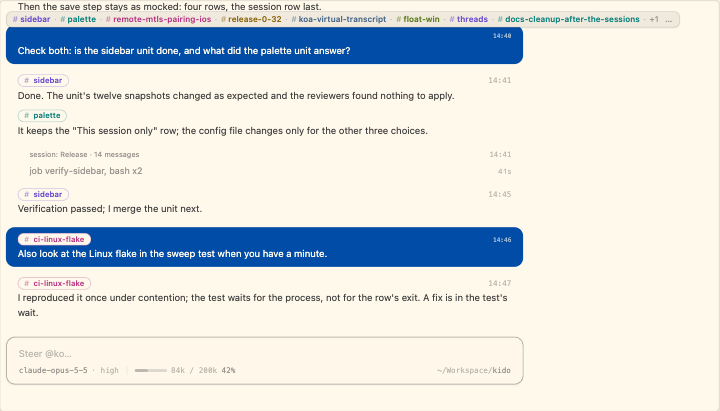
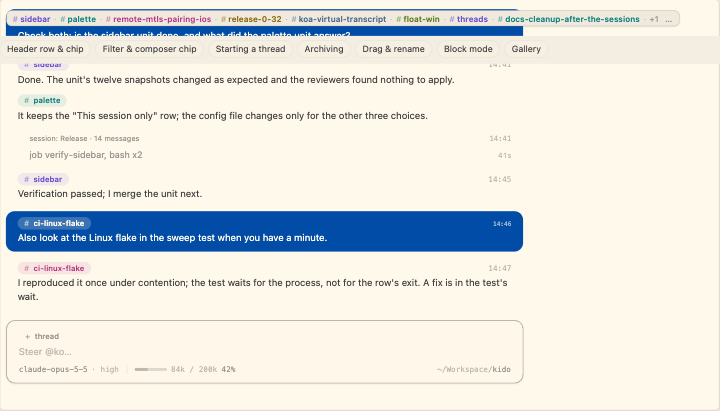
koa threads: the composer's thread, starting and archiving a thread
The chip is a tinted pill; a message's chip sets the composer's thread and only the thread widget filters. The composer always has a header row with its thread or + thread, /thread names one, a message's header offers + thread to move its turn into a new thread, and a widget row archives its thread, which the classifier then no longer offers.

diff --git a/app/design/koa/header.html b/app/design/koa/header.html
@@ -664,24 +664,80 @@ html:not([data-dock=band]) .gallery .dock .field{-webkit-backdrop-filter:none;ba
 .pane .msg.user,html[data-um=solid] .pane .msg.user{display:block}
 .msg.assistant .sec+.sec{margin-top:10px}
 .field .hd{margin:0 0 4px}
+/* the panel's drag, drop and rename (NOTES, "The classifier MVP, reviewed") */
+.tpanel .row.dragging{opacity:.5}
+.tpanel .row.drop{outline:2px solid color-mix(in srgb,var(--dc) 50%,transparent);outline-offset:-2px;background:color-mix(in srgb,var(--dc) 6%,var(--well))}
+.msg.assistant.drop{outline:2px solid color-mix(in srgb,var(--dc) 50%,transparent);outline-offset:3px;border-radius:6px;background:color-mix(in srgb,var(--dc) 6%,transparent)}
+.tpanel .row.renaming{cursor:default}.tpanel .row.renaming .n{color:var(--tc)}.tpanel .row.renaming .n .h{opacity:.55;font-weight:400}
+.tpanel .row.renaming .input{flex:1;min-width:0;border:1px solid var(--hair);border-radius:4px;padding:2px 6px;background:var(--ko-bg);color:var(--fg);font-weight:400;line-height:1.3}
+.tpanel .row.renaming .sel{background:color-mix(in srgb,var(--accent) 28%,transparent)}
+/* naming a new thread in the composer (proposal 2026-11-21) */
+.chip.naming{cursor:text}.chip.naming .in{min-width:6ch}.chip.naming .ph{color:var(--faint);font-weight:400}.chip.naming .caret{display:inline-block;width:1px;height:1em;background:var(--fg);vertical-align:-2px;margin-left:1px}
+.tpanel .row.new .n{color:var(--muted);font-weight:500}
+.field .text.has{color:var(--fg)}
+/* adding a thread to an existing message: the "+ thread" chip on hover of the header row */
+.chip.add{border:1px dashed color-mix(in srgb,var(--fg) 30%,transparent);background:none;color:var(--muted);font-weight:500;padding:0 8px}.chip.add .h{opacity:.8;font-weight:500}
+.msg.user .chip.add{border-color:color-mix(in srgb,var(--ink,var(--fg)) 45%,transparent);color:color-mix(in srgb,var(--ink,var(--fg)) 80%,transparent)}
+.msg.user .chip.naming{background:color-mix(in srgb,var(--ko-bg) 22%,transparent);color:var(--ink,var(--fg))}.msg.user .chip.naming .caret{background:var(--ink,var(--fg))}.msg.user .chip.naming .ph{color:color-mix(in srgb,var(--ink,var(--fg)) 55%,transparent)}
+/* archive (user, 2026-11-21): an × at the row's right on hover, in the age's slot; an archived row stays, dimmed, after the live ones, and its hover control is ↺ */
+.tpanel .row .x{display:none;width:16px;height:16px;line-height:16px;text-align:center;border-radius:4px;color:var(--muted);font:14px/16px var(--prose);flex-shrink:0;margin:0 -2px 0 0}
+.tpanel .row.hov .w,.tpanel .row:hover .w{display:none}.tpanel .row.hov .x,.tpanel .row:hover .x{display:inline-block}.tpanel .row .x:hover{background:var(--well2);color:var(--ko-fg)}
+.tpanel .row.archived{opacity:.45}.tpanel .row.archived:hover,.tpanel .row.archived.hov{opacity:.7}
+.caps .hn.archived{display:none}
+/* chip variants for the user to choose (2026-11-21) */
+html[data-chip=plain] .chip{border-color:transparent;background:none;padding:0}
+html[data-chip=tint] .chip{border-color:transparent;background:color-mix(in srgb,var(--tc) 10%,transparent)}
+html[data-chip=tint] .msg.user .chip{background:color-mix(in srgb,var(--ko-bg) 22%,transparent);color:var(--ink,var(--fg))}
+html[data-chip=tint] .msg.user .chip .h{opacity:.6}
+html[data-chip=dot] .chip{border-color:transparent;background:none;padding:0;color:var(--muted);font-weight:500}
+html[data-chip=dot] .chip .h{display:inline-block;width:7px;height:7px;border-radius:50%;background:var(--tc);opacity:1;align-self:center;margin-right:-1px}
+html[data-chip=dot] .chip .h::before{content:""}
+html[data-chip=dot] .msg.user .chip{color:color-mix(in srgb,var(--ink,var(--fg)) 80%,transparent)}
+html[data-chip=muted] .chip{border-color:transparent;background:none;padding:0;color:var(--muted);font-weight:600}
+html[data-chip=muted] .chip .h{opacity:.6}
+html[data-chip=muted] .msg.user .chip{color:color-mix(in srgb,var(--ink,var(--fg)) 70%,transparent)}
+html[data-chip=line] .chip{border:0;border-radius:0;background:none;padding:0 0 0 8px;border-left:2px solid var(--tc);color:var(--fg);font-weight:500;line-height:1.2}
+html[data-chip=line] .msg.user .chip{color:var(--ink,var(--fg));border-left-color:color-mix(in srgb,var(--ink,var(--fg)) 70%,transparent)}
+html[data-chip=line] .chip .h{display:none}
+.toc{position:sticky;top:52px;z-index:5;display:flex;flex-wrap:wrap;gap:4px 6px;padding:6px 0 8px;background:color-mix(in srgb,var(--ko-fg) 6%,var(--ko-bg))}
+.toc a{font:12px/1 var(--prose);color:var(--fg);text-decoration:none;padding:5px 9px;border-radius:999px;background:var(--well);border:1px solid var(--hair)}.toc a:hover{background:var(--well2)}
+section{scroll-margin-top:96px}#gallery{scroll-margin-top:96px}
+section h2 a{color:inherit;text-decoration:none}section h2 a:hover{text-decoration:underline}
 </style>
 </head>
 <body>
 <div class="controls"><h1>Threads: the header row and the chip</h1>
 <label>Theme <select id="theme"><option value="light">kido-light</option><option value="dark">kido-dark</option></select></label>
+<label>Chip <select id="chip"><option value="tint">tinted pill (chosen 2026-11-21)</option><option value="tag">outlined tag</option><option value="plain">plain #name in the colour</option><option value="dot">colour dot + name, muted</option><option value="muted">#name muted, no colour</option><option value="line">bar + name</option></select></label>
 <label>Width <select id="width"><option value="wide">wide</option><option value="narrow">60 columns</option></select></label>
 <span style="color:var(--muted)">approved 2026-11-21 · a header row on every message and a thread chip replace the reply's pill</span></div>
+<nav class="toc"><a href="#header">Header row &amp; chip</a><a href="#filter">Filter &amp; composer chip</a><a href="#new">Starting a thread</a><a href="#archive">Archiving</a><a href="#panel">Drag &amp; rename</a><a href="#block">Block mode</a><a href="#gallery">Gallery</a></nav>
 <p class="lede">A thread is a named workstream of one session; the agent labels its own text with <code>[thread: name]</code> lines, which the transcript turns into marks. The page shows the threads in a capsule at the top left (the view bar's family), lists them with their status and summary in a panel under it, and filters the transcript to one thread on a click. Nothing here is live.</p>
 
-<section><h2>1 · The header row and the chip</h2>
-<p>Approved (user, 2026-11-21). Every message, user or agent, starts with a header row that holds only its time at the right (the time's design as today) and, when the message has a thread, the thread's chip at the left: "# name" in the thread's colour as an outlined tag. The reply's pill is gone. A reply about two threads has the chip of its first section in the header, and each later section starts with a row of its own chip, without a time. A user message whose thread is known (the classifier's label, a filter, a typed marker) has the chip too; the two multi-thread user messages here have none. Runs, steps, notices and job lines are unchanged: no header, no chip.</p>
+<section id="header"><h2><a href="#header">1 · The header row and the chip</a></h2>
+<p>Approved (user, 2026-11-21). Every message, user or agent, starts with a header row that holds only its time at the right (the time's design as today) and, when the message has a thread, the thread's chip at the left: "# name" in the thread's colour on a tinted pill (the colour at 10%; on the solid user block the page background at 22% with the ink), the user's choice of 2026-11-21 among the Chip picker's treatments. The reply's pill is gone. A reply about two threads has the chip of its first section in the header, and each later section starts with a row of its own chip, without a time. A user message whose thread is known (the classifier's label, a filter, a typed marker) has the chip too; the two multi-thread user messages here have none. Runs, steps, notices and job lines are unchanged: no header, no chip.</p>
 <div class="grid"><div class="pane aligned withcaps" data-state="marks"></div><div class="pane aligned withcaps narrow" data-state="marks-narrow"></div></div></section>
 
-<section><h2>2 · A filter active: the chip in the composer</h2>
-<p>While a filter is on, the thread's chip stands at the top left of the field, above the text, with an × that clears the filter; the placeholder is the plain "Steer @ko…" / "Message @ko…" and the foot's thread cell is gone (the chip says it once). The messages of the filtered transcript show the time alone in their header (the chip would say the same on every row). The line-mode capsule keeps "# name" (opens the panel) and loses its ×; the panel keeps "All threads".</p>
+<section id="filter"><h2><a href="#filter">2 · A filter active: the chip in the composer</a></h2>
+<p>Two things (user, 2026-11-21): the composer's thread and the transcript's filter. The composer's thread is its chip at the top left of the field, above the text, with an × that drops it; it is set by a click on a message's chip, by <code>/thread name</code> (section 2b), and by the widget's filter. The filter is only the widget's: a name in the capsule, a panel row, a block row; the capsule's × (line mode) and "All threads" (panel, block mode) clear it. A filter sets the composer's thread too, as here; the chip's × then drops the composer's thread and leaves the filter. The placeholder is the plain "Steer @ko…" / "Message @ko…" and the foot's thread cell is gone. The messages of the filtered transcript show the time alone in their header.</p>
 <div class="grid"><div class="pane aligned withcaps" data-state="filter"></div><div class="pane aligned withcaps narrow" data-state="filter-narrow"></div></div></section>
 
-<section><h2>3 · Block mode, unfiltered and filtered</h2>
+<section id="new"><h2><a href="#new">2b · Starting a thread explicitly</a></h2>
+<p>The composer alone creates a thread (user, 2026-11-21): its header row always exists and holds either the composer's thread as a chip with an ×, or the same dashed "+ thread" chip as a message's header shows on hover (here it is always visible: it is the route). A click on it opens the naming chip in place (left: the placeholder "thread name", the caret in it); typing a name (a Zulip topic, with spaces and any text: there is no <code>#name</code> syntax, it would collide with Markdown headings) and Enter sets the composer's thread (right): an existing thread's name takes that thread's colour, a new one the next colour; Escape or the × goes back to "+ thread". The keyboard route is the slash command <code>/thread &lt;name&gt;</code>, with the existing names in the completion popup; <code>/thread</code> alone drops the thread. The chip is the composer's thread: the message goes to #name, a new thread or an existing one; the transcript is not filtered, on send either (user, 2026-11-21); the classifier is not asked; the chip stays after the send.</p>
+<div class="grid"><div class="pane aligned withcaps" data-state="new-thread"></div><div class="pane aligned withcaps" data-state="new-thread-named"></div></div>
+<p style="margin-top:14px">From an existing message (user, 2026-11-21): hovering a message's header row shows a dashed "+ thread" chip after its chip (or alone); a click opens it as the naming chip in that row; Enter creates the thread and moves the message's turn into it (the MVP's move), Escape or the × drops it. Left: the hover on the user message "Also look at the Linux flake…"; right: naming it.</p>
+<div class="grid"><div class="pane aligned withcaps" data-state="tag-hover"></div><div class="pane aligned withcaps" data-state="tag-naming"></div></div></section>
+
+<section id="archive"><h2><a href="#archive">2c · Archiving a thread</a></h2>
+<p>User, 2026-11-21: every thread row in the widget (the panel, and block mode's rows) has an × at its right, shown on hover in the age's slot; a click archives the thread. An archived thread stays in the widget, dimmed to 45%, listed after the live threads (newest first within each group), and out of the line-mode capsule's names and "+N"; its hover control is ↺, which restores it. The classifier is not shown archived threads and cannot label into one; a message sent explicitly to an archived thread (its chip in the composer, a filter on it, a turn moved into it) restores it. Filtering to, renaming and merging an archived thread work as for a live one. Left: the panel with the "release-0-32" row hovered and two archived threads; right: block mode.</p>
+<div class="grid"><div class="pane aligned withcaps" data-state="archive"></div><div class="pane aligned withcaps xwide" style="width:1000px" data-state="archive-block"></div></div></section>
+
+<section id="panel"><h2><a href="#panel">3 · The panel: drag to merge, drag onto a reply, rename</a></h2>
+<p>From the classifier MVP, reviewed 2026-11-21 (NOTES, "The classifier MVP, reviewed"). A press on a row and 5px of travel start a drag: the row dims to 50%, the pointer is the grabbing hand, no ghost. The target carries the dragged thread's colour: a 2px outline at 50% and a fill at 6%, inset on a panel row (over the hover fill), 3px outside a transcript message. A drop on a row merges the dragged thread into it; a drop on a message moves its whole turn (user message and replies). A double-click on a row renames it in place: the field takes the row's width ("#" kept in the colour, the summary and the age hidden), the name selected; Enter or a click outside commits, Escape cancels. A single click filters after 250ms.</p>
+<div class="grid"><div class="pane aligned withcaps" data-state="drag-row"></div><div class="pane aligned withcaps" data-state="drag-reply"></div><div class="pane aligned withcaps" data-state="rename"></div></div>
+<div class="grid" style="margin-top:14px"><div class="pane aligned withcaps xwide" data-state="block-drag"></div></div></section>
+
+<section id="block"><h2><a href="#block">4 · Block mode, unfiltered and filtered</a></h2>
 <div class="grid"><div class="pane aligned withcaps xwide" data-state="block"></div></div>
 <div class="grid" style="margin-top:14px"><div class="pane aligned withcaps xwide" data-state="block-filter"></div></div></section>
 
@@ -694,32 +750,33 @@ const foot=(thr)=>`<div class="foot">${thr?`<span class="thr" style="${tc(thr)}"
 const transcript=(inner)=>`<div class="scroll"><div class="transcript">${inner}</div></div>`;
 const tc=(n)=>{const i=T9.findIndex(t=>t.n===n);return `--tc:var(--t${(i<0?0:i)%6})`};
 const pill=(n,time)=>`<span class="pill${n?'':' plain'}" style="${n?tc(n):''}">${n?`<span class="h">#</span><span class="n">${esc(n)}</span>`:''}${time?`<time>${time}</time>`:''}</span>`;
-const sec=(n,html,o={})=>`<div class="sec" style="${n?tc(n):''}">${hd(o.nomark?null:n,o.first?o.pill:null)}${html}</div>`;
+const sec=(n,html,o={})=>`<div class="sec" style="${n?tc(n):''}">${hd(o.nomark?null:n,o.first?o.pill:null,o.first?o:{})}${html}</div>`;
 const dots='<span class="dots"><i></i><i></i><i></i></span>';
 const run=(o)=>`<div class="run${o.open?' open':''}"><div class="line"><span class="chev">›</span><span class="sum"><span class="names">${o.sum}${o.working?dots:''}</span></span><span class="time">${o.time||''}</span></div>${o.steps?`<div class="steps">${o.steps}</div>`:''}</div>`;
 const tool=(o)=>`<div class="step${o.open?' open':''}"><div class="line"><span class="name${o.err?' err':''}">${o.name}</span>${o.cmd?`<span class="sum"><span class="cmd">${esc(o.cmd)}</span>${o.delta?` <span class="delta">${o.delta}</span>`:''}</span>`:''}${o.working?dots:''}<span class="time">${o.time||''}</span></div>${o.detail?`<div class="detail">${o.detail}</div>`:''}</div>`;
 const astep=(o)=>`<div class="step${o.open?' open':''}"><div class="line"><span class="lead${o.err?' err':''}">${esc(o.kind)} ${o.dir} ${who(o.name,{err:o.err,gone:o.gone})}${o.rel?` <span class="rel">${esc(o.rel)}</span>`:''}</span><span class="tx">${esc(o.text.split('\n')[0])}</span>${o.working?dots:''}<span class="time">${o.time||''}</span></div>${o.body?`<div class="detail"><div class="body">${o.body}</div></div>`:''}</div>`;
 const jstep=(o)=>`<div class="step${o.open?' open':''}"><div class="line"><span class="lead${o.err?' err':''}">job <span class="who" style="cursor:default">${esc(o.name)}</span></span><span class="tx ev${o.err?' err':''}">${esc(o.ev)}</span><span class="time">${o.time||''}</span></div>${o.out?`<div class="detail"><div class="jh"><a href="#job:${esc(o.name)}">open</a><span class="log">~/.local/state/koa/jobs/${esc(o.name)}.log</span></div><div class="well">${esc(o.out)}</div></div>`:''}</div>`;
 const chip=(n,o={})=>`<span class="chip" style="${tc(n)}"><span class="h">#</span><span class="n">${esc(n)}</span>${o.x?'<span class="x">×</span>':''}</span>`;
-const hd=(n,time)=>`<div class="hd">${n?chip(n):''}${time?`<time>${time}</time>`:''}</div>`;
-const userMsg=(html,t='09:12',n)=>`<div class="msg user">${hd(n,t)}<div class="t">${html}</div></div>`;
-const assistant=(parts,o={})=>{let out='',cur=null,buf=[],first=true;const flush=()=>{if(buf.length){out+=sec(cur,buf.map(p=>`<p>${p}</p>`).join(''),{...o,pill:o.time||'13:52',first});first=false}buf=[]};for(const p of parts){if(typeof p==='string')buf.push(p);else{flush();cur=p.t}}flush();return `<div class="msg assistant">${out}</div>`};
+const naming=(v)=>`<span class="chip naming" style="--tc:var(--t${(T9.length)%6})"><span class="h">#</span><span class="in">${v===true?'<span class="ph">thread name</span>':esc(v)}</span><span class="x">×</span></span>`;
+const hd=(n,time,o={})=>`<div class="hd${o.hover?' hover':''}">${n?chip(n):''}${o.naming?naming(o.naming):o.hover?'<span class="chip add"><span class="h">+</span><span class="n">thread</span></span>':''}${time?`<time>${time}</time>`:''}</div>`;
+const userMsg=(html,t='09:12',n,o={})=>`<div class="msg user">${hd(n,t,o)}<div class="t">${html}</div></div>`;
+const assistant=(parts,o={})=>{let out='',cur=null,buf=[],first=true;const flush=()=>{if(buf.length){out+=sec(cur,buf.map(p=>`<p>${p}</p>`).join(''),{...o,pill:o.time||'13:52',first});first=false}buf=[]};for(const p of parts){if(typeof p==='string')buf.push(p);else{flush();cur=p.t}}flush();return `<div class="msg assistant${o.drop?' drop':''}"${o.drop?` style="--dc:var(--t${T9.findIndex(x=>x.n===o.drop)%6})"`:''}>${out}</div>`};
 const nrow=(o)=>`<div class="nrow"><div class="hd"><span class="tx">${o.text}</span><time>${o.time}</time></div></div>`;
-const composer=(o={})=>`<div class="composer"><div class="field focus">${o.thread?`<div class="hd">${chip(o.thread,{x:true})}</div>`:''}<div class="text ph">Steer @ko…</div>${foot()}</div></div>`;
+const composer=(o={})=>`<div class="composer"><div class="field focus"><div class="hd">${o.naming?naming(o.naming):o.thread?chip(o.thread,{x:true}):'<span class="chip add"><span class="h">+</span><span class="n">thread</span></span>'}</div><div class="text ph${o.text?' has':''}">${o.text?esc(o.text):'Steer @ko…'}</div>${foot()}</div></div>`;
 const T2=[{n:'sidebar',st:'on',s:'Recording the right-side indicator snapshots; the unit reports in a minute.',w:'2m'},{n:'palette',st:'wait',s:'Should the Theme mode keep the "This session only" row?',w:'14m'}];
 const T9=[{n:'sidebar',st:'on',s:'Recording the right-side indicator snapshots; the unit reports in a minute.',w:'2m'},{n:'palette',st:'wait',s:'Should the Theme mode keep the "This session only" row?',w:'14m'},{n:'remote-mtls-pairing-ios',st:'on',s:'The iOS unit builds the Pair sheet; the scan well is a stand-in without a camera.',w:'20m'},{n:'release-0-32',st:'',s:'Waiting on CI for the rebase; nothing to do until it is green.',w:'35m'},{n:'koa-virtual-transcript',st:'on',s:'Find over the model lands the match in the mounted row; the WebKit check is pending.',w:'1h'},{n:'float-win',st:'',s:'Merged. The child windows pass the full visual stage.',w:'2h'},{n:'threads',st:'wait',s:'Which capsule family for the widget: the view bar\'s, or a new one?',w:'3h'},{n:'docs-cleanup-after-the-sessions',st:'',s:'Deferred until the sessions plan moves into docs/.',w:'5h'},{n:'ci-linux-flake',st:'',s:'Reproduced once under --contend 4; the fix is in the sweep test\'s wait.',w:'1d'}];
 const hn=(n)=>`<span class="hn" style="${tc(n)}"><span class="h">#</span>${esc(n)}</span>`;
-const capAll=(ts,open,k)=>{k=k??ts.length;const shown=ts.slice(0,k).map(t=>hn(t.n)).join('<span class="sp">·</span>');const rest=ts.length-k;return `<div class="cap tcap${open?' open':''}" data-k="${k}">${shown}${rest>0?`<span class="sp">·</span><span class="more">+${rest}</span>`:''}<span class="mb" title="All threads">…</span></div>`};
+const capAll=(ts,open,k)=>{ts=ts.filter(t=>!t.a);k=k??ts.length;const shown=ts.slice(0,k).map(t=>hn(t.n)).join('<span class="sp">·</span>');const rest=ts.length-k;return `<div class="cap tcap${open?' open':''}" data-k="${k}">${shown}${rest>0?`<span class="sp">·</span><span class="more">+${rest}</span>`:''}<span class="mb" title="All threads">…</span></div>`};
 /* as many names as fit, newest first: the capsule is at most the pane's width minus 16pt; a name is dropped from the end (and counted in +N) until the whole capsule with its tail fits; the first name always shows and ellipsizes alone */
 function fitCap(pane){const cap=pane.querySelector('.tcap[data-k]');if(!cap)return;const max=pane.clientWidth-16;let k=+cap.dataset.k;const ts=pane._ts;let cur=cap;while(k>1&&cur.scrollWidth>max){k--;cur.outerHTML=capAll(ts,cur.classList.contains('open'),k);cur=pane.querySelector('.tcap[data-k]')}const c=cur;c.style.maxWidth=max+'px';if(k===1)c.querySelector('.hn').style.cssText+=';overflow:hidden;text-overflow:ellipsis;min-width:0'}
 const capOne=(t)=>`<div class="cap tcap">${hn(t.n)}<span class="x"><svg viewBox="0 0 10 10"><path d="M2 2l6 6M8 2l-6 6"/></svg></span></div>`;
 const viewbar=`<div class="cap"><span class="bk">‹</span><span class="anc">@ko</span><span class="sp">›</span><b>@sidebar-right</b></div>`;
-const panel=(ts,cur,block)=>`<div class="tpanel${block?' block':''}"${block?` style="--bl:${block.left}px;--bw:${block.width}px"`:''}>${ts.map(t=>`<div class="row${t.n===cur?' cur':''}" style="${tc(t.n)}"><span class="n">${hn(t.n)}</span><span class="s">${esc(t.s)}</span><span class="w">${t.w}</span></div>`).join('')}${cur?`<div class="row all"><span class="n">All threads</span></div>`:''}</div>`;
+const panel=(ts,cur,block,o={})=>`<div class="tpanel${block?' block':''}"${block?` style="--bl:${block.left}px;--bw:${block.width}px"`:''}>${ts.map(t=>t.n===o.rename?`<div class="row renaming" style="${tc(t.n)}"><span class="n"><span class="h">#</span></span><span class="input"><span class="sel">${esc(t.n)}</span></span></div>`:`<div class="row${t.n===cur?' cur':''}${t.n===o.drag?' dragging':''}${t.n===o.over?' drop':''}${t.a?' archived':''}${t.n===o.hover?' hov':''}" style="${tc(t.n)}${t.n===o.over?';--dc:var(--t'+(T9.findIndex(x=>x.n===o.drag)%6)+')':''}"><span class="n">${hn(t.n)}</span><span class="s">${esc(t.s)}</span><span class="w">${t.w}</span><span class="x" title="${t.a?'Restore':'Archive'}">${t.a?'↺':'×'}</span></div>`).join('')}${cur?`<div class="row all"><span class="n">All threads</span></div>`:''}</div>`;
 /* the mode: block when a 240pt block, standing 8pt from the left, covers at most 10% of the transcript's width (the transcript is 720pt at most, centred); its width is then the gutter plus that 10%, at most 340pt */
 /* iteration 2: the transcript is left-aligned (720pt at most); the block stands at its right, 20pt from it, 8pt from the pane's edge, when at least 30 cells (30 × the cell width) are free there; it takes that room, at most 360pt */
 const CELL=7.8;
 const blockGeom=(pane)=>{const pw=pane.clientWidth,tw=Math.min(720,pw);const avail=pw-tw-20-8;return avail>=30*CELL?{left:tw+20,width:Math.min(360,Math.floor(avail))}:null};
-const caps=(o,pane)=>{const g=blockGeom(pane);pane.classList.toggle('blockmode',!!g);if(g)return panel(o.ts,o.cur,g);return `<div class="caps">${o.cur?capOne(o.ts.find(t=>t.n===o.cur)):capAll(o.ts,o.open)}</div>${o.open?panel(o.ts,o.cur):''}`};
+const caps=(o,pane)=>{const g=blockGeom(pane);pane.classList.toggle('blockmode',!!g);if(g)return panel(o.ts,o.cur,g,o);return `<div class="caps">${o.cur?capOne(o.ts.find(t=>t.n===o.cur)):capAll(o.ts,o.open)}</div>${o.open?panel(o.ts,o.cur,null,o):''}`};
 const body1=userMsg('Start the sidebar unit on the right-side indicators, and ask the palette unit about the Theme mode\'s session row.','13:50')
   +assistant([{t:'sidebar'},'Spawned <b>@sidebar-right</b> with the indicator spec; it records the snapshots at the end.',{t:'palette'},'Asked <b>@palette</b> whether the Theme mode keeps the "This session only" row; its answer decides the save step.'],{time:'13:51'})
   +run({sum:'to @sidebar-right, to @palette, read x2, bash',time:'6s',steps:astep({kind:'task',dir:'to',name:'sidebar-right',rel:'subagent',text:'Build the right-side indicators from the spec; record the snapshots at the end.',time:'0.1s'})+astep({kind:'message',dir:'to',name:'palette',rel:'subagent',text:'Does the Theme mode keep the "This session only" row, or does the config file always change?',time:'0.1s'})+tool({name:'read',cmd:'app/App/SidebarRow.swift',time:'0.2s'})+tool({name:'read',cmd:'app/design/sidebar/NOTES.md',time:'0.2s'})+tool({name:'bash',cmd:'make -C app build',time:'5s'})})
@@ -742,7 +799,36 @@ const filtered=userMsg('Start the sidebar unit on the right-side indicators.','1
   +run({sum:'job verify-sidebar, bash x2',time:'41s'})
   +assistant(['Verification passed; I merge the unit next.'],{time:'14:45'})
   +userMsg('Also look at the Linux flake in the sweep test when you have a minute.','14:46');
+const dragReply=userMsg('Check both: is the sidebar unit done, and what did the palette unit answer?','14:40')
+  +assistant([{t:'sidebar'},'Done. The unit\'s twelve snapshots changed as expected and the reviewers found nothing to apply.'],{time:'14:41'})
+  +run({sum:'job verify-sidebar, bash x2',time:'41s'})
+  +assistant([{t:'sidebar'},'Verification passed; I merge the unit next.'],{time:'14:45'})
+  +userMsg('Also look at the Linux flake in the sweep test when you have a minute.','14:46','ci-linux-flake')
+  +assistant([{t:'ci-linux-flake'},'I reproduced it once under contention; the test waits for the process, not for the row\'s exit. A fix is in the test\'s wait.'],{time:'14:47',drop:'threads'});
+const tagging=userMsg('Check both: is the sidebar unit done, and what did the palette unit answer?','14:40')
+  +assistant([{t:'sidebar'},'Done. The unit\'s twelve snapshots changed as expected and the reviewers found nothing to apply.',{t:'palette'},'It keeps the "This session only" row; the config file changes only for the other three choices.'],{time:'14:41'})
+  +run({sum:'job verify-sidebar, bash x2',time:'41s'})
+  +assistant([{t:'sidebar'},'Verification passed; I merge the unit next.'],{time:'14:45'})
+  +userMsg('Also look at the Linux flake in the sweep test when you have a minute.','14:46',null,{hover:true})
+  +assistant(['I reproduced it once under contention; the test waits for the process, not for the row\'s exit. A fix is in the test\'s wait.'],{time:'14:47'});
+const tagged=userMsg('Check both: is the sidebar unit done, and what did the palette unit answer?','14:40')
+  +assistant([{t:'sidebar'},'Done. The unit\'s twelve snapshots changed as expected and the reviewers found nothing to apply.',{t:'palette'},'It keeps the "This session only" row; the config file changes only for the other three choices.'],{time:'14:41'})
+  +run({sum:'job verify-sidebar, bash x2',time:'41s'})
+  +assistant([{t:'sidebar'},'Verification passed; I merge the unit next.'],{time:'14:45'})
+  +userMsg('Also look at the Linux flake in the sweep test when you have a minute.','14:46',null,{naming:'Linux sweep fla'})
+  +assistant(['I reproduced it once under contention; the test waits for the process, not for the row\'s exit. A fix is in the test\'s wait.'],{time:'14:47'});
+const T9A=[...T9.filter(t=>!['float-win','docs-cleanup-after-the-sessions'].includes(t.n)),...T9.filter(t=>['float-win','docs-cleanup-after-the-sessions'].includes(t.n)).map(t=>({...t,a:true}))];
 const states={
+  archive:(p)=>caps({ts:T9A,open:true,hover:'release-0-32'},p)+transcript(body1)+composer(),
+  'archive-block':(p)=>caps({ts:T9A,hover:'release-0-32'},p)+transcript(body1+marks)+composer(),
+  'tag-hover':(p)=>caps({ts:T9},p)+transcript(body1+tagging)+composer(),
+  'tag-naming':(p)=>caps({ts:T9},p)+transcript(body1+tagged)+composer(),
+  'new-thread':(p)=>caps({ts:T9},p)+transcript(body1+marks)+composer({naming:true}),
+  'new-thread-named':(p)=>caps({ts:T9},p)+transcript(body1+marks)+composer({thread:'CI macOS timeouts',text:'The macOS runner times out on the e2e stage twice a day; find the test.'}),
+  'drag-row':(p)=>caps({ts:T9,open:true,drag:'palette',over:'sidebar'},p)+transcript(body1)+composer(),
+  'drag-reply':(p)=>caps({ts:T9,open:true,drag:'threads'},p)+transcript(dragReply)+composer(),
+  rename:(p)=>caps({ts:T9,open:true,rename:'palette'},p)+transcript(body1)+composer(),
+  'block-drag':(p)=>caps({ts:T9,drag:'palette',over:'sidebar'},p)+transcript(body1+marks)+composer(),
   two:(p)=>caps({ts:T2,open:true},p)+transcript(body1)+composer(),
   many:(p)=>caps({ts:T9,open:true},p)+transcript(body1)+composer(),
   'many-narrow':(p)=>caps({ts:T9,open:true},p)+transcript(body1)+composer(),
@@ -754,11 +840,12 @@ const states={
   block:(p)=>caps({ts:T9},p)+transcript(body1+marks)+composer(),
   'block-filter':(p)=>caps({ts:T9,cur:p._cur||'sidebar'},p)+transcript(filtered)+composer({thread:p._cur||'sidebar'}),
 };
-function fill(pane){pane._ts=/two/.test(pane.dataset.state)?T2:T9;pane.innerHTML=states[pane.dataset.state](pane);const dock=document.createElement('div');dock.className='dock';for(const k of [...pane.children].filter(c=>c.classList.contains('composer')))dock.appendChild(k);pane.appendChild(dock);pane.style.setProperty('--dock-h',dock.offsetHeight+'px');const sc=pane.querySelector('.scroll');if(/marks|filter|block/.test(pane.dataset.state))sc.scrollTop=sc.scrollHeight;fitCap(pane);}
+function fill(pane){pane._ts=/two/.test(pane.dataset.state)?T2:T9;pane.innerHTML=states[pane.dataset.state](pane);const dock=document.createElement('div');dock.className='dock';for(const k of [...pane.children].filter(c=>c.classList.contains('composer')))dock.appendChild(k);pane.appendChild(dock);pane.style.setProperty('--dock-h',dock.offsetHeight+'px');const sc=pane.querySelector('.scroll');if(/marks|filter|block|tag|drag/.test(pane.dataset.state))sc.scrollTop=sc.scrollHeight;fitCap(pane);}
 for(const pane of document.querySelectorAll('.pane[data-state]'))fill(pane);
 function gallery(){const g=document.getElementById('gallery');g.querySelectorAll('.gcell').forEach(c=>c.remove());for(const s of Object.keys(states))for(const th of ['light','dark']){const cell=document.createElement('div');cell.className='gcell';const p=document.createElement('div');p.className='pane aligned withcaps'+(s.includes('narrow')?' narrow':'');p.dataset.state=s;p.style.cssText='width:100%;height:420px;font-size:12px';if(s.startsWith('block'))cell.style.gridColumn='1/-1';if(th==='dark'){p.setAttribute('data-theme','dark')}cell.appendChild(p);fill(p);const c=document.createElement('div');c.className='cap2';c.textContent=s+' · '+th;cell.appendChild(c);g.appendChild(cell)}}
 gallery();
-for(const id of ['theme','width']){const el=document.getElementById(id);el.value=document.documentElement.dataset[id];el.onchange=e=>{document.documentElement.dataset[id]=e.target.value;for(const pane of document.querySelectorAll('.pane[data-state]'))fill(pane)}}
+document.documentElement.dataset.chip=new URLSearchParams(location.search).get('chip')||'tint';
+for(const id of ['theme','width','chip']){const el=document.getElementById(id);el.value=document.documentElement.dataset[id];el.onchange=e=>{document.documentElement.dataset[id]=e.target.value;for(const pane of document.querySelectorAll('.pane[data-state]'))fill(pane)}}
 document.addEventListener('click',e=>{const st=e.target.closest('.step>.line');if(st){if(st.parentElement.querySelector('.detail'))st.parentElement.classList.toggle('open');return}const rl=e.target.closest('.run>.line');if(rl&&rl.parentElement.querySelector('.steps')){rl.parentElement.classList.toggle('open');return}const pane=e.target.closest('.pane');if(!pane)return;const S=pane.dataset.state,narrow=S.includes('narrow'),blk=S.startsWith('block');
   const setFilter=(n)=>{pane._cur=n;pane.dataset.state=blk?'block-filter':narrow?'filter-narrow':'filter';fill(pane)};
   const clear=()=>{pane._cur=null;pane.dataset.state=blk?'block':narrow?'marks-narrow':'marks';fill(pane)};

diff --git a/app/design/koa/NOTES.md b/app/design/koa/NOTES.md
@@ -2064,15 +2064,20 @@ light and dark in the gallery.
   faint colour on a reply, the ink at 65% on a user block, its right
   edge on the text edge like every other time. Inside a user block
   the row sits inside the block's padding (8px 16px), above the
-  text; a reply's row is its first line. *The chip*: "# name" as an
-  outlined tag, .8em prose, "#" at 55% of the thread's colour, the
-  name at 600 in it, a 6px gap, 0/8px padding, 999px radius, the
-  fill the page background and a 1px edge in the colour at 30%, so
-  the same chip reads on the page, on the solid user block and in
-  the field; the name ellipsizes at 60% of the row, the full name
-  in its `title`. The chip is the mark's control, as the pill was:
-  the hand over the chip only, hover underlines the name at 50%,
-  pressed 100%, a click filters to the thread. *Multi-section
+  text; a reply's row is its first line. *The chip*: "# name" on a
+  tinted pill (the user's choice, 2026-11-21, over an outlined tag,
+  plain text, a dot, a muted label and a bar: header.html's Chip
+  picker keeps them), .8em prose, "#" at 55% of the thread's
+  colour, the name at 600 in it, a 6px gap, 0/8px padding, 999px
+  radius, no edge, the fill the colour at 10% on the page and in
+  the field; on the solid user block the fill is the page
+  background at 22% and the text the block's ink ("#" at 60%), so
+  the pill reads on the accent; the name ellipsizes at 60% of the row, the full name
+  in its `title`. The chip is a control (user, 2026-11-21: it sets
+  the composer's thread, it does not filter; the filter is only the
+  widget's): the hand over the chip only, hover underlines the name
+  at 50%, pressed 100%, a click puts that thread's chip in the
+  composer's header as the composer's thread. *Multi-section
   replies*: the first section's chip is in the header with the
   time; each later section starts with a row of its own chip and
   no time, 10px above (the time belongs to the message, and it is
@@ -2083,24 +2088,97 @@ light and dark in the gallery.
   pending prompt*: unchanged, no header and no chip (the queue's
   row is one line; the composer's chip already names the thread of
   what the dock holds under a filter). *Narrow*: the row keeps its
-  two ends; the chip ellipsizes first. *Under a filter*: the chip
-  stands at the top left of the field, above the text, in a row of
-  the same metrics, with an × after the name (14px, the muted
-  colour, 0/3px padding, 4px radius, hover the well2) that clears
-  the filter; the placeholder is the plain "Steer @ko…" / "Message
-  @ko…" and the foot's thread cell is removed; the transcript's
-  messages show the time alone in their header (the name would say
-  the same on every row). The line-mode capsule under a filter keeps
-  "# name" (opens the panel) and loses its ×, which lives on the
-  composer's chip now; the panel keeps "All threads"; block mode's
-  current row and "All threads" are unchanged. Decided by the user
-  (2026-11-21): the foot cell and the "in #name" placeholder go;
-  the capsule's × moves to the composer's chip; the queue's rows
-  carry no chip. The reply's pill, the foot cell and the "in #name"
-  placeholder in the bullets above are history.
+  two ends; the chip ellipsizes first. *The composer's thread*
+  (user, 2026-11-21: two things, the composer's thread and the
+  transcript's filter): the composer has at most one thread, shown
+  as its chip at the top left of the field, above the text, in a
+  row of the same metrics, with an × after the name (14px, the
+  muted colour, 0/3px padding, 4px radius, hover the well2) that
+  drops it; without a thread the row holds the "+ thread" chip
+  ("Starting a thread explicitly"), so the row always exists. It is set by a click on a message's chip, by a typed
+  `/thread name` ("Starting a thread explicitly"), and by the widget: a
+  filter sets the composer's thread to the filtered thread. The
+  message goes to that thread (the marker is written, the
+  classifier is not asked); the chip stays after a send, so the
+  next message goes there too, until the × or another chip. The
+  × drops the composer's thread only: the filter, if any, stays,
+  and the next message is classified. The filter is only the
+  widget's: a name in the line-mode capsule, a panel row, a block
+  row; clearing it is the widget's too: the capsule's × in line
+  mode, "All threads" in the panel and in block mode (the × of the
+  composer's chip never clears the filter). The placeholder is the
+  plain "Steer @ko…" / "Message @ko…" and the foot's thread cell is
+  removed; under a filter the transcript's messages show the time
+  alone in their header (the name would say the same on every
+  row). Decided by the user (2026-11-21): the foot cell and the "in
+  #name" placeholder go; the queue's rows carry no chip. The
+  reply's pill, the foot cell and the "in #name" placeholder in the
+  bullets above are history, and so is the move of the capsule's ×
+  to the composer (2026-11-21, earlier the same day).
+- **Starting a thread explicitly** (user, 2026-11-21, approved;
+  header.html section 2b). (1) From the composer alone (user: no panel row;
+  the same "+ thread" as on a message, user, 2026-11-21): the
+  composer's header row always exists (so the field is one row
+  taller than before) and holds either the composer's thread as
+  its chip with the ×, or the "+ thread" chip of (2) below, always
+  visible here, not on hover: it is the route. A click on it turns
+  it into the naming chip in place (the tinted pill in the next
+  colour, "#", a text field of at least 6ch with the placeholder
+  "thread name" in the faint colour, the ×, the caret in the
+  field); typing a name and Enter sets the composer's thread (an
+  existing thread's name takes that thread's colour; Tab and Enter
+  move the caret to the text), Escape or the × returns to "+
+  thread". A thread's name is a Zulip topic, with spaces and any
+  text, so there is no `#name` syntax (it would collide with
+  Markdown headings; user, 2026-11-21). The keyboard route is the
+  slash command `/thread <name>`: it sets the composer's thread to
+  that name, existing (the completion popup offers the existing
+  names after `/thread `) or new, and leaves the text; `/thread`
+  alone drops the composer's thread. The chip is the composer's thread ("The composer's
+  thread" above): the message goes to #name, the transcript is not
+  filtered (user, 2026-11-21: the filter is only the widget's), the
+  × drops it and nothing returns to the text. On send the message
+  carries the marker and the classifier is not asked (plan decision
+  6); the transcript stays unfiltered and the chip stays. (2) From
+  an existing message: hovering a message's
+  header row shows a "+ thread" chip after its chip, or alone when
+  it has none: the chip's metrics with a 1px dashed edge at 30% of
+  the foreground (45% of the ink on a user block), "+" and "thread"
+  in the muted colour at 500, no fill, the hand cursor; it takes no
+  room when hidden (the row's time keeps its place). A click turns
+  it into a naming chip in that row (the tinted pill in the next
+  colour, "#", then a text field of at least 6ch with the
+  placeholder "thread name" in the faint colour, and the ×); Enter
+  creates the thread and moves the message's turn into it (the
+  MVP's move of a turn, so a reply takes its user message along), a
+  name of an existing thread moves the turn there instead; Escape,
+  the × or a click outside drops it. The row's existing chip stays
+  until the move lands; then it is replaced. No slash command.
+- **Archiving a thread** (user, 2026-11-21, approved; header.html
+  section 2c). Every thread row of the widget
+  (the panel's rows and block mode's rows) has an × at its right,
+  in the age's slot: shown on hover of the row in place of the age,
+  16px square, 4px radius, the muted colour, hover the well2 and the
+  foreground, the hand; a click archives the thread, no
+  confirmation. An archived thread stays in the widget: its row
+  dimmed to 45% (70% on hover), listed after the live threads,
+  each group newest first; its hover control is ↺ ("Restore"),
+  which unarchives it. The line-mode capsule shows live threads
+  only, and "+N" counts live ones; the panel lists both. The
+  classifier is not shown archived threads (they leave
+  `threadContext`) and cannot label into one: an answer that names
+  an archived thread counts as a failure (plan decision 3: the
+  message goes without a marker). An explicit message to an
+  archived thread restores it: its chip in the composer (a click
+  on a message's chip, `/thread`, the naming chip), a filter on it
+  (a click on its dimmed row filters as on a live row), a turn
+  moved or a thread merged into it. Rename works as on a live
+  thread. The state is koa's, per session, in the session's thread
+  list (`archived: true`), so it survives a reload and a resume.
 - **The classifier MVP, reviewed** (2026-11-21; the user promoted
   the MVP of plans/koa-thread-classifier.md; the page's panel
-  gained drag, rename and a pending prompt). What agrees with the
+  gained drag, rename and a pending prompt; header.html section 3
+  shows the drag over a row, the drag over a reply and the rename). What agrees with the
   design and stays: the panel's rows (28pt, "# name" ellipsized at
   220pt in line mode and 45% in block mode, the summary muted and
   ellipsized, the age at the right), a click filters, the current
